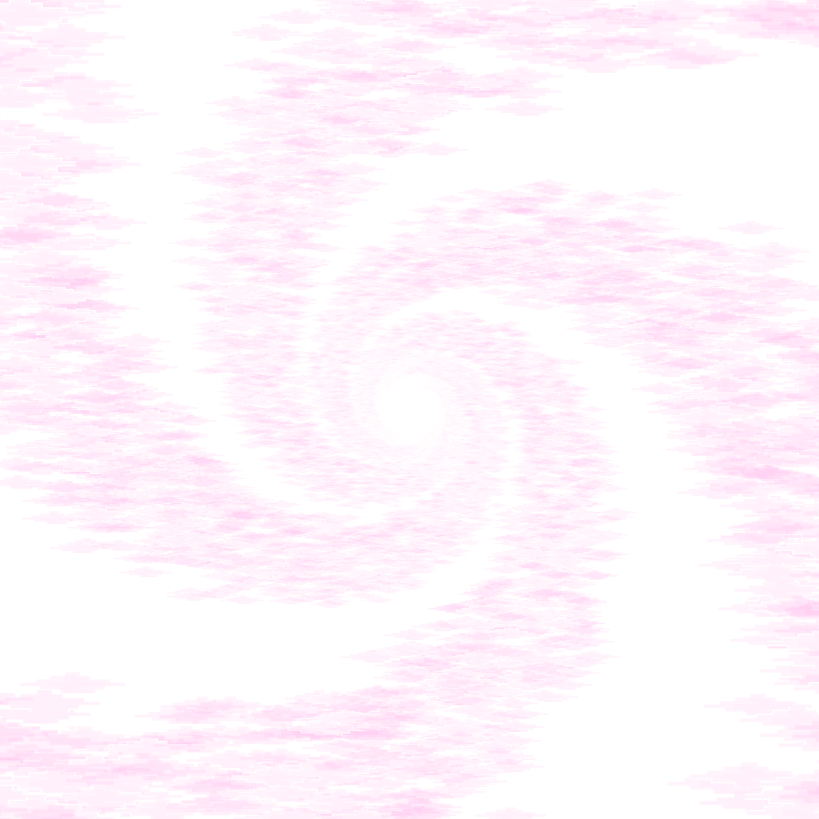
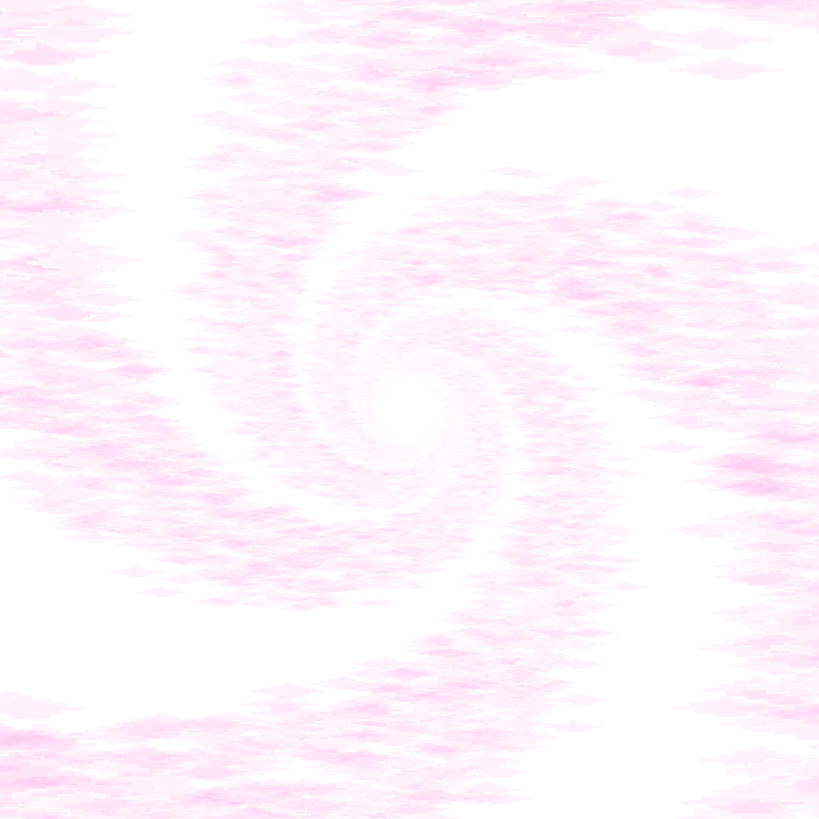
Dark matter stuff
Halved frames of clouds (will not be choppier)
Modified floating rocks texture (still needs more work and parallax)

diff --git a/Effects/DarkMatterSky.cs b/Effects/DarkMatterSky.cs
@@ -17,7 +17,7 @@ public class DarkMatterSky : CustomSky
     private static int blackHoleFrame;
     private static int surfaceFrame;
     private static int surfaceFrameCounter;
-    private readonly Asset<Texture2D>[] darkMatterBackgrounds = new Asset<Texture2D>[50];
+    private readonly Asset<Texture2D>[] darkMatterBackgrounds = new Asset<Texture2D>[25];
     private int bgLoops;
     private int bgStartX;
     private int bgTopY;
@@ -83,7 +83,7 @@ public class DarkMatterSky : CustomSky
         // Surface frame counter
         if (++surfaceFrameCounter > 3)
         {
-            surfaceFrame = (surfaceFrame + 1) % 50;
+            surfaceFrame = (surfaceFrame + 1) % 25;
             surfaceFrameCounter = 0;
         }
 
